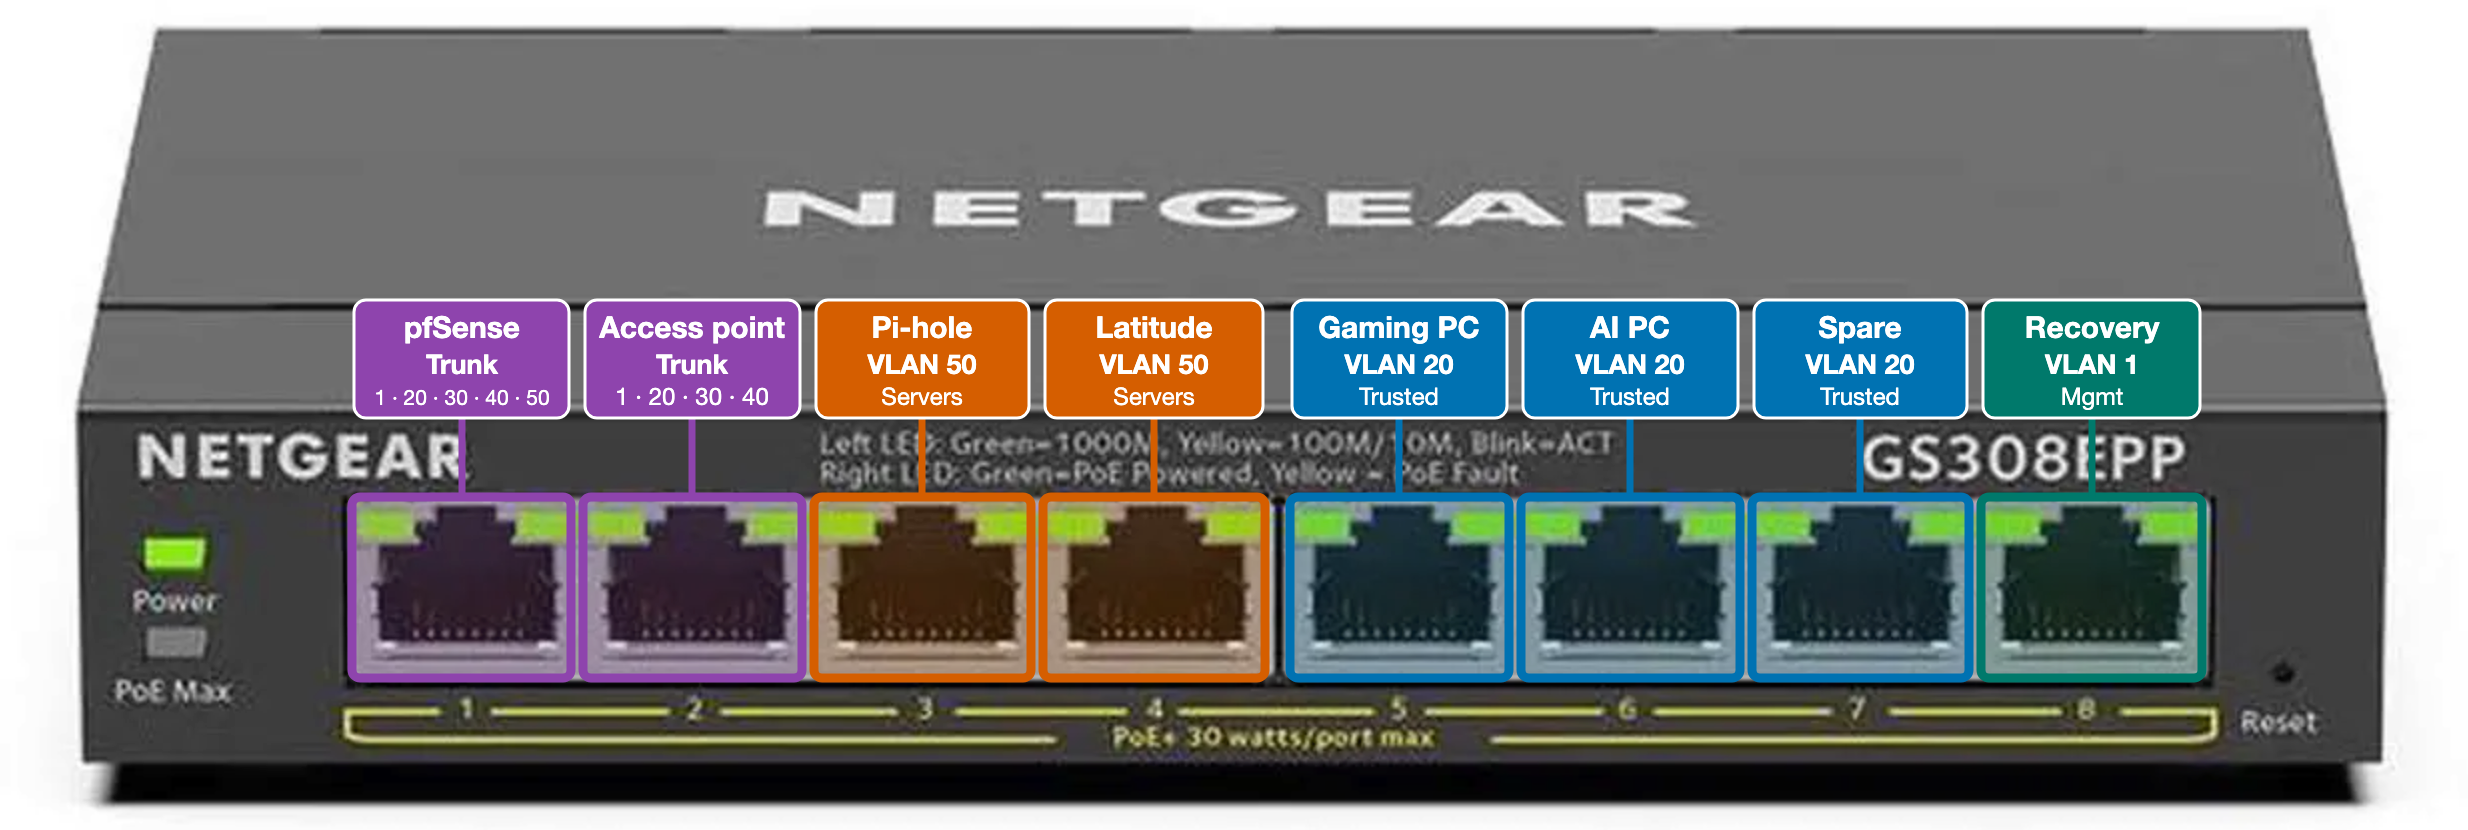
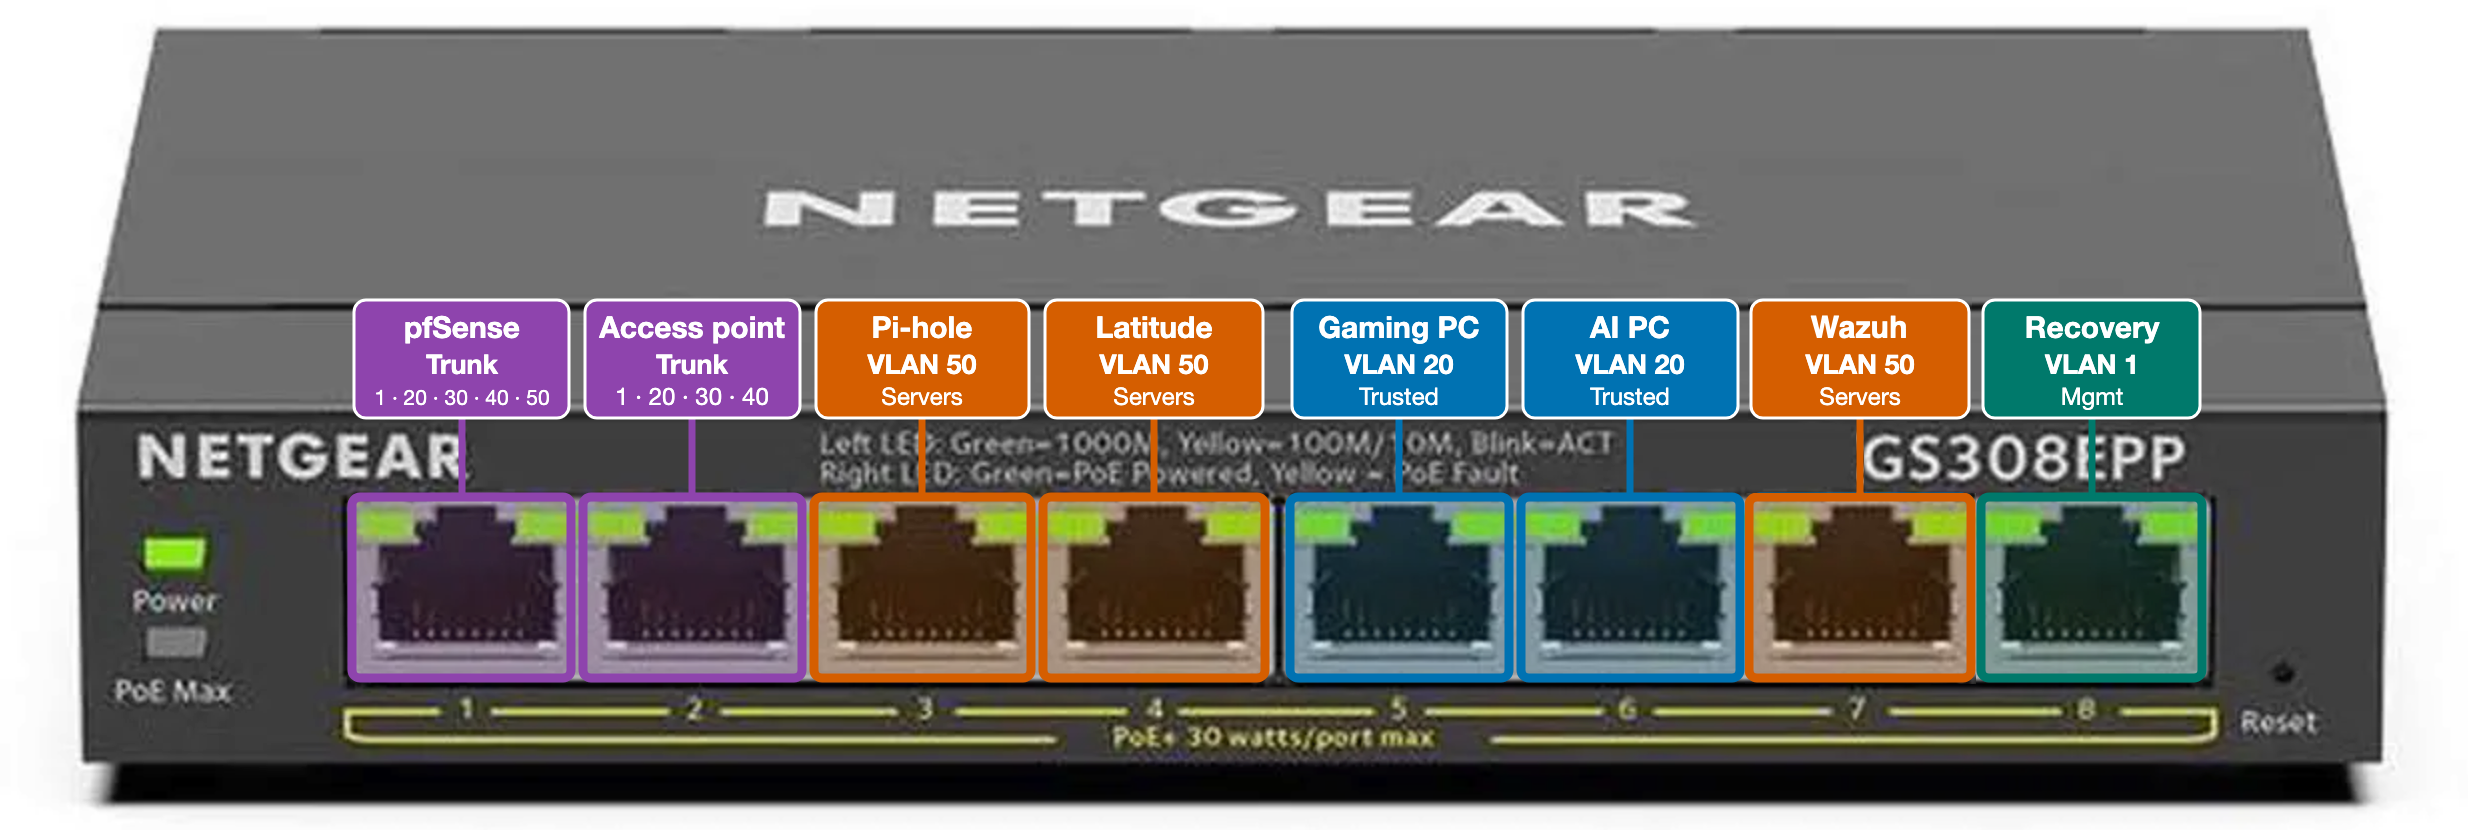
Plan the Wazuh server on switch port 7
Add the Latitude 5420 as a planned Servers device on port 7 (10.0.50.30), rename the 7490 entries, and update the port map image, diagram and roadmap.

Changed region(s): [[0.6864, 0.3614, 0.8112, 0.8434]]

diff --git a/README.md b/README.md
@@ -56,12 +56,12 @@ Five VLANs, each on `10.0.<VLAN>.0/24`, so a device's VLAN is readable from its 
 | 20 | Trusted | 10.0.20.0/24 | My laptop, phone and PCs | DNS to Pi-hole and the internet. Blocked from the firewall and all internal networks. Same-VLAN traffic such as Moonlight and Wake-on-LAN works |
 | 30 | IoT | 10.0.30.0/24 | Smart devices, the hydroponics project (deferred) | DNS to Pi-hole and the internet only |
 | 40 | Guest | 10.0.40.0/24 | Visitors and work laptops | DNS from its own gateway and the internet only. Never touches Pi-hole |
-| 50 | Servers | 10.0.50.0/24 | Pi-hole (.10); the Latitude (.20, planned) | Pi-hole reaches the internet on 53, 80, 123 and 443 only. Servers can't start connections into other VLANs; DNS replies still flow because the firewall is stateful |
+| 50 | Servers | 10.0.50.0/24 | Pi-hole (.10); the Latitude 7490 (.20, planned); the Wazuh server, a Latitude 5420 (.30, planned) | Pi-hole reaches the internet on 53, 80, 123 and 443 only. Servers can't start connections into other VLANs; DNS replies still flow because the firewall is stateful |
 
-The Latitude stays on Mgmt until NextCloud is set up, then moves to Servers (switch port 4).
+The Latitude 7490 stays on Mgmt until NextCloud is set up, then moves to Servers (switch port 4). A second laptop, a Latitude 5420, will run Wazuh on switch port 7, the spare Trusted port today, also in Servers.
 
 <p align="center">
-  <img src="images/switch_port_map.png" alt="Switch port map: ports 1-2 trunks to pfSense and the access point, ports 3-4 Servers VLAN 50, ports 5-7 Trusted VLAN 20, port 8 Mgmt VLAN 1" width="800">
+  <img src="images/switch_port_map.png" alt="Switch port map: ports 1-2 trunks to pfSense and the access point, ports 3, 4 and 7 Servers VLAN 50 (port 7 planned), ports 5-6 Trusted VLAN 20, port 8 Mgmt VLAN 1" width="800">
 </p>
 
 ### Firewall rules
@@ -106,8 +106,8 @@ graph TD
   NET([Internet]) --> PF["pfSense firewall / router<br/>inter-VLAN routing · DHCP<br/>least-privilege rules"]
   PF -- "Port 1 · trunk<br/>untagged 1<br/>tagged 20, 30, 40, 50" --> SW["Netgear GS308EP<br/>8-port PoE+ managed switch"]
   SW -- "Port 8 · access" --> MG["Mgmt · VLAN 1<br/>10.0.1.0/24<br/>switch .2 · AP .3 · wired recovery port"]
-  SW -- "Ports 3-4 · access" --> SRV["Servers · VLAN 50<br/>10.0.50.0/24<br/>Pi-hole .10 · Latitude .20 (planned)"]
-  SW -- "Ports 5-7 · access" --> TW["Trusted (wired) · VLAN 20<br/>10.0.20.0/24<br/>Gaming PC · workstation · spare"]
+  SW -- "Ports 3, 4, 7 · access" --> SRV["Servers · VLAN 50<br/>10.0.50.0/24<br/>Pi-hole .10 · Latitude 7490 .20 (planned)<br/>Wazuh (Latitude 5420) .30 (planned)"]
+  SW -- "Ports 5-6 · access" --> TW["Trusted (wired) · VLAN 20<br/>10.0.20.0/24<br/>Gaming PC · workstation"]
   SW -- "Port 2 · trunk + PoE<br/>untagged 1<br/>tagged 20, 30, 40" --> AP["TP-Link EAP610<br/>one SSID per VLAN"]
   AP -- "Home SSID<br/>2.4 + 5 GHz" --> V20(["Trusted (Wi-Fi) · VLAN 20"])
   AP -- "IoT SSID<br/>2.4 GHz only" --> V30(["IoT · VLAN 30<br/>10.0.30.0/24"])
@@ -138,7 +138,7 @@ graph LR
 
 - **VLAN ID matches the third octet.** A device's VLAN reads from its IP. Trade-off: renumbering means re-addressing.
 - **Mgmt on the existing untagged LAN (VLAN 1), admin from the wired port only.** I kept my LAN as Mgmt, and believe Netgear Plus switches only serve their UI on VLAN 1 (not independently confirmed). Trade-off: no admin from Trusted Wi-Fi, so I use a cable.
-- **Separate Servers VLAN.** Pi-hole and the Latitude (planned) sit apart, and IoT can't reach them. Trade-off: more rules to write and test.
+- **Separate Servers VLAN.** Pi-hole and the Latitudes (planned) sit apart, and IoT can't reach them. Trade-off: more rules to write and test.
 - **Guest DNS from its own gateway, never Pi-hole.** Guests get no path into Servers, even for DNS. Trade-off: no Pi-hole filtering for guests.
 - **Block DNS bypass (ports 53 and 853) instead of a NAT redirect.** A block is explicit and shows up in tests, while a redirect hides misbehaving devices. Trade-off: a hardcoded resolver breaks instead of being silently fixed.
 - **Work laptops on Guest.** Employer-managed devices are untrusted at home. Trade-off: they can't reach my devices.
@@ -165,9 +165,9 @@ Likelihood is my own estimate.
 ## Roadmap
 
 - Upgrade pfSense 2.8.1 to 2.9.0, and check the GS308EP firmware.
-- NextCloud on the Latitude, moved to Servers (port 4), with its certificate and the server tests.
+- NextCloud on the Latitude 7490, moved to Servers (port 4), with its certificate and the server tests.
 - Hydroponics onboarding to IoT ([step 6](docs/build-log.md#step-6)).
-- Detection: pfSense syslog into Wazuh ([`wazuh-siem-homelab`](https://github.com/uploadtigris/wazuh-siem-homelab)), then Suricata.
+- Detection: Wazuh on a Latitude 5420 (switch port 7, Servers VLAN, [`wazuh-siem-homelab`](https://github.com/uploadtigris/wazuh-siem-homelab)) with pfSense syslog, then Suricata.
 
 ## Related
 

diff --git a/docs/build-log.md b/docs/build-log.md
@@ -30,7 +30,7 @@ Segment the home network into five VLANs with default-deny rules between them, a
 | 20 | Trusted | 10.0.20.0/24 | 10.0.20.1 | Laptop, phone, PCs |
 | 30 | IoT | 10.0.30.0/24 | 10.0.30.1 | Smart devices, hydroponics project |
 | 40 | Guest | 10.0.40.0/24 | 10.0.40.1 | Visitors |
-| 50 | Servers | 10.0.50.0/24 | 10.0.50.1 | Pi-hole (10.0.50.10), Latitude (10.0.50.20) |
+| 50 | Servers | 10.0.50.0/24 | 10.0.50.1 | Pi-hole (10.0.50.10), Latitude 7490 (10.0.50.20, planned), Wazuh server on a Latitude 5420 (10.0.50.30, planned) |
 
 ## Action
 
@@ -139,7 +139,7 @@ _Interfaces > Interface Assignments: each VLAN is its own interface. MAC address
 _Decision: ports 3 to 6 kept VLAN 1 until their steps. Moving the Pi-hole (port 3) before step 4 would break DNS for the whole network, and moving the PCs (ports 5 and 6) before step 5 would leave them with no internet. I configured the trunk (port 1) and the AP (port 2) first, and used spare port 7 on VLAN 20 to prove the trunk works._
 
 <p align="center">
-  <img src="../images/switch_port_map.png" alt="Switch port map: ports 1-2 trunks to pfSense and the access point, ports 3-4 Servers VLAN 50, ports 5-7 Trusted VLAN 20, port 8 Mgmt VLAN 1" width="800">
+  <img src="../images/switch_port_map.png" alt="Switch port map: ports 1-2 trunks to pfSense and the access point, ports 3, 4 and 7 Servers VLAN 50 (port 7 planned), ports 5-6 Trusted VLAN 20, port 8 Mgmt VLAN 1" width="800">
 </p>
 
 | Port | Device | Untagged (PVID) | Tagged |
@@ -150,14 +150,15 @@ _Decision: ports 3 to 6 kept VLAN 1 until their steps. Moving the Pi-hole (port 
 | 4 | Latitude 7490 | 50 | none |
 | 5 | Gaming PC | 20 | none |
 | 6 | Workstation | 20 | none |
-| 7 | Spare (Trusted) | 20 | none |
+| 7 | Spare (Trusted). Planned: Wazuh server (Latitude 5420) | 20 now, 50 planned | none |
 | 8 | Recovery port (Mgmt) | 1 | none |
 
 - ✅ Advanced 802.1Q enabled, VLANs 20, 30, 40, 50 created and named, and every port labeled to match the map (labels are cosmetic)
 - ✅ Port 1 tagged on 20, 30, 40, 50. Port 2 tagged on 20, 30, 40. Ports 1, 2 and 8 stay untagged in VLAN 1
 - ✅ Port 7: untagged on VLAN 20, PVID 20, removed from VLAN 1. Port 3 moved in step 4, and ports 5 and 6 in step 5
 - ✅ Switch given a static address (10.0.1.2), and its UI confirmed reachable from port 8, the way back in
-- **Deferred:** port 4 (Latitude): PVID 50, VLAN 50, removed from VLAN 1. It moves when NextCloud is set up
+- **Deferred:** port 4 (Latitude 7490): PVID 50, VLAN 50, removed from VLAN 1. It moves when NextCloud is set up
+- **Deferred:** port 7 (Latitude 5420, the Wazuh server): PVID 50, VLAN 50, removed from VLAN 1. It is the Trusted spare until the Wazuh rebuild, and the Servers rules need one more pass rule for it first (see the [Wazuh build log](https://github.com/uploadtigris/wazuh-siem-homelab/blob/main/docs/build-log.md))
 
 ```
 On this switch's new UI, marking a port U in a VLAN automatically set its PVID, but the port stayed a
